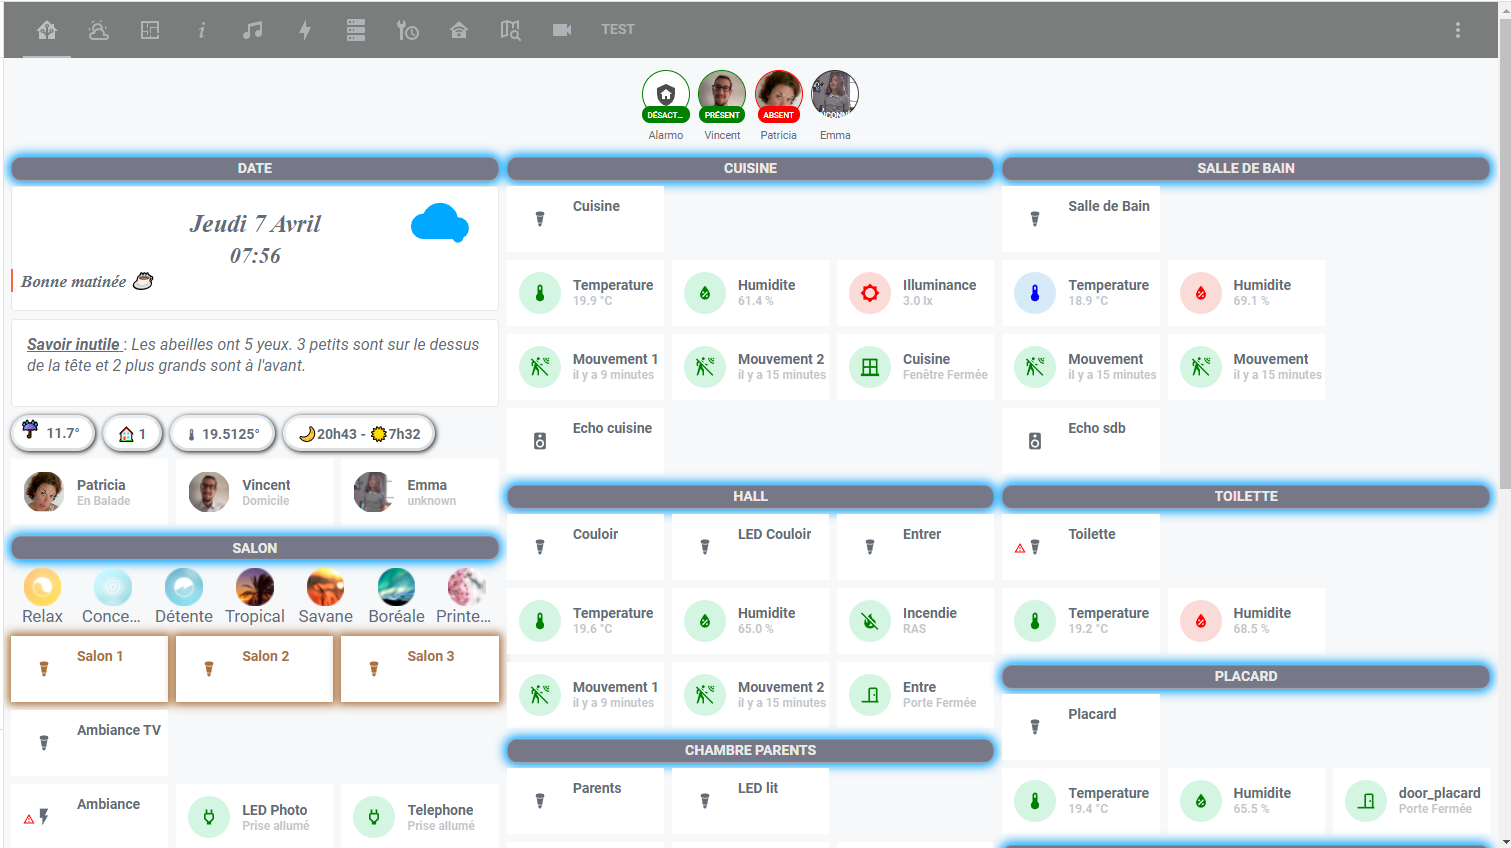
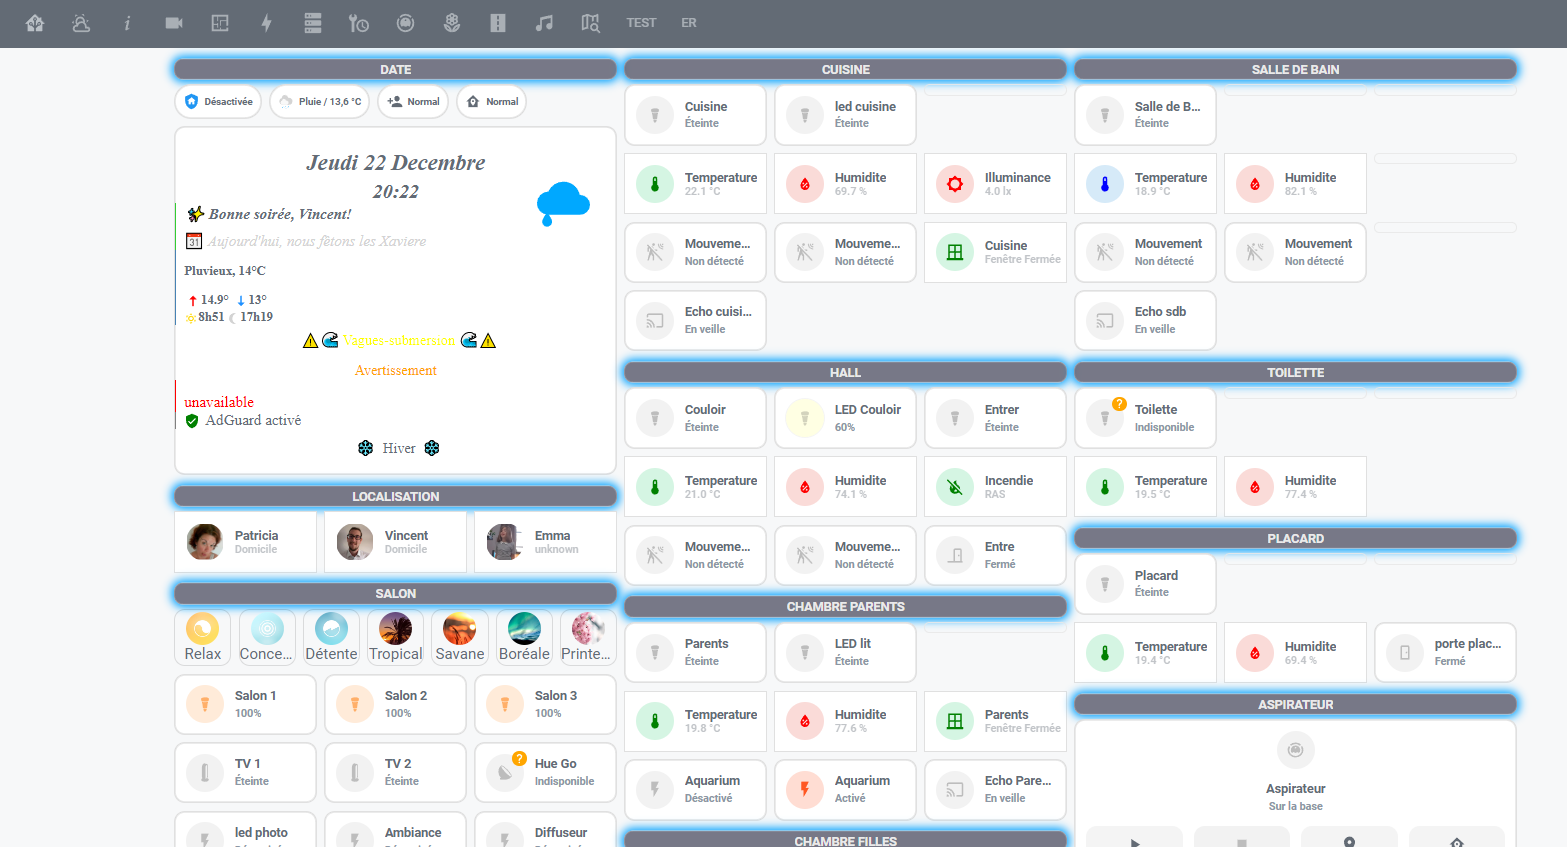
Mise a jour readme et screenshot

diff --git a/README.md b/README.md
@@ -1,4 +1,4 @@
-Installation de [Home Assistant](https://home-assistant.io/) sous docker hébergé sur une VM debian 11, le tout sur un hyperviseur Esxi. configuration pour un appartement T3, offrant des automatisations pour la lumière, le multimédia, la sécurité, etc...
+Installation de [Home Assistant](https://home-assistant.io/) sous docker hébergé sur une VM debian 11, le tout sur un NAS Qnap. configuration pour un appartement T3, offrant des automatisations pour la lumière, le multimédia, la sécurité, etc...
 Je ne suis pas un expert, les codes ne sont peut-être pas écrits de la meilleure façon, n'ayant à la base aucunes connaissances en développement et en Yaml, j'ai surtout modifié des configurations trouvées ici et là pour l'adapter à mon besoin, j'ai réalisé ceci avec mes petites connaissances et des informations trouvé un peu partout sur des sites, des forums et différents Github.
 
 
@@ -7,18 +7,23 @@ Tout n'est pas encore terminé, mais je commence à avoir quelques choses d'util
 
 #### Lumières 💡
 
-- **[Hue E27 White and Color Ambiance](https://www.philips-hue.com/fr-fr/p/hue-white-and-color-ambiance-pack-de-1-e27/8719514328204)** salon (x3)
-- **[Hue E27 White](https://www.philips-hue.com/fr-fr/p/hue-white-pack-de-1-e27/8719514329843)**  chambre 1 (x1), chambre 2 (x1), entrée (x1), WC (x1), cuisine (x1), hall (x1), Placard (x1)
-- **[Hue Play](https://www.philips-hue.com/fr-fr/p/hue-white-and-color-ambiance-hue-play-pack-d-extension/7820330P7)** salon (x1).
-- **[Ruban LED RGB 2m](https://fr.aliexpress.com/item/1005001629851565.html?spm=a2g0o.productlist.0.0.9a6641dcvSloLh&algo_pvid=11b74916-a0cf-4171-b561-42ae37cb1f9b&algo_exp_id=11b74916-a0cf-4171-b561-42ae37cb1f9b-7&pdp_ext_f=%7B%22sku_id%22%3A%2212000020734049678%22%7D&pdp_pi=-1%3B26.06%3B-1%3B-1%40salePrice%3BEUR%3Bsearch-mainSearch)** cusine (x1)
-- **[Ruban LED RGB 5m](https://fr.aliexpress.com/item/1005001629851565.html?spm=a2g0o.productlist.0.0.9a6641dcvSloLh&algo_pvid=11b74916-a0cf-4171-b561-42ae37cb1f9b&algo_exp_id=11b74916-a0cf-4171-b561-42ae37cb1f9b-7&pdp_ext_f=%7B%22sku_id%22%3A%2212000020734049678%22%7D&pdp_pi=-1%3B26.06%3B-1%3B-1%40salePrice%3BEUR%3Bsearch-mainSearch)** hall (x1)
+- **[Hue E27 White and Color Ambiance](https://www.philips-hue.com/fr-fr/p/hue-white-and-color-ambiance-pack-de-1-e27/8719514328204)** <sup>[Zigbee]</sup> salon (x3)
+- **[Hue E27 White](https://www.philips-hue.com/fr-fr/p/hue-white-pack-de-1-e27/8719514329843)** <sup>[Zigbee]</sup> chambre 1 (x1), chambre 2 (x1), entrée (x1), WC (x1), cuisine (x1), hall (x1), Placard (x1)
+- **[Hue Play](https://www.philips-hue.com/fr-fr/p/hue-white-and-color-ambiance-hue-play-pack-d-extension/7820330P7)** salon (x2).
+- **[Ruban LED RGB 2m](https://fr.aliexpress.com/item/1005001629851565.html?spm=a2g0o.productlist.0.0.9a6641dcvSloLh&algo_pvid=11b74916-a0cf-4171-b561-42ae37cb1f9b&algo_exp_id=11b74916-a0cf-4171-b561-42ae37cb1f9b-7&pdp_ext_f=%7B%22sku_id%22%3A%2212000020734049678%22%7D&pdp_pi=-1%3B26.06%3B-1%3B-1%40salePrice%3BEUR%3Bsearch-mainSearch)** <sup>[Zigbee]</sup> cusine (x1)
+- **[Ruban LED RGB 5m hue Lightstrips](https://www.amazon.fr/Philips-LightStrips-connectique-compatible-Bluetooth/dp/B088RX9CSZ/ref=sr_1_5?crid=17BYN0YNGI5AN&keywords=hue%2Blightstrip&qid=1671735585&sprefix=hue%2Bli%2Caps%2C91&sr=8-5&th=1)** hall (x1)
 - **[Ruban LED RGB 5m étanche](https://fr.aliexpress.com/item/1005001629851565.html?spm=a2g0o.productlist.0.0.9a6641dcvSloLh&algo_pvid=11b74916-a0cf-4171-b561-42ae37cb1f9b&algo_exp_id=11b74916-a0cf-4171-b561-42ae37cb1f9b-7&pdp_ext_f=%7B%22sku_id%22%3A%2212000020734049678%22%7D&pdp_pi=-1%3B26.06%3B-1%3B-1%40salePrice%3BEUR%3Bsearch-mainSearch)** SdB (x1)
+
+#### Noel 🎄🎅
+- **[Twinkly Strings – Guirlande lumineuse à led](https://www.amazon.fr/gp/product/B08F2JDWX5/ref=ppx_yo_dt_b_asin_title_o09_s00?ie=UTF8&psc=1)** <sup>[Wifi]</sup>sapin salon (x1)
+- **[Twinkly Music – Capteur de Son](https://www.amazon.fr/gp/product/B087CTR5VW/ref=ppx_yo_dt_b_asin_title_o08_s00?ie=UTF8&psc=1)** <sup>[Wifi]</sup> salon (x3)
+
 
 #### Détécteurs 📡
 
 - **[Xiaomi Aqara door & window contact sensor](https://www.amazon.fr/Aqara-XIAOMI-MCCGQ11LM-Ensemble-Capteur/dp/B07P9K6HBZ/ref=sr_1_5?crid=KW4W9BT65HNU&keywords=capteur+de+porte+xiaomi&qid=1644229999&sprefix=capteur+de+porte+xiaomi%2Caps%2C292&sr=8-5)** <sup>[Zigbee]</sup> détection d'ouverture de porte et fenêtres (x6). 
 - **[Xiaomi MiJia human body movement sensor](https://www.amazon.fr/Aqara-RTCGQ11LM-D%C3%A9tecteur-Automatique-compatible/dp/B07D1CRRVF/ref=sr_1_6?__mk_fr_FR=%C3%85M%C3%85%C5%BD%C3%95%C3%91&crid=4A2UXBSNVBKD&keywords=capteur+de+mouvement+xiaomi&qid=1644147334&sprefix=capteur+de+mouvement+xiaomi%2Caps%2C51&sr=8-6)** <sup>[Zigbee]</sup> détection de mouvements (x9).
-- **[Hue Détecteur de Mouvement Motion Sensor](https://www.amazon.fr/Philips-D%C3%A9tecteur-Mouvement-Motion-Sensor/dp/B09CV78GV1/ref=sr_1_5?__mk_fr_FR=%C3%85M%C3%85%C5%BD%C3%95%C3%91&crid=E0BNPR9KKMZM&keywords=hue+motion&qid=1644104262&sprefix=hue+motion%2Caps%2C54&sr=8-5)** <sup>[Zigbee]</sup> détection de mouvements (x1). 
+- **[Hue Détecteur de Mouvement Motion Sensor](https://www.amazon.fr/Philips-D%C3%A9tecteur-Mouvement-Motion-Sensor/dp/B09CV78GV1/ref=sr_1_5?__mk_fr_FR=%C3%85M%C3%85%C5%BD%C3%95%C3%91&crid=E0BNPR9KKMZM&keywords=hue+motion&qid=1644104262&sprefix=hue+motion%2Caps%2C54&sr=8-5)** <sup>[Zigbee]</sup> détection de mouvements (x3). 
 - **[Xiaomi Aqara Capteur de Température et d'Humidité](https://www.amazon.fr/Aqara-Temperatur-Luftfeuchtigkeits-Luftdrucksensor-Homekit/dp/B07D37FKGY/ref=sr_1_6?crid=LMMOX7F8DMAO&keywords=aquara+xiaomi+temperature&qid=1644104335&sprefix=aquara+%2Caps%2C61&sr=8-6)** <sup>[Zigbee]</sup> Capteur de température et humidité (x8). 
 - **[Xiaomi Capteur de luminosité](https://www.amazon.fr/Capteur-luminosit%C3%A9-Zigbee-3-0-Xiaomi/dp/B094MQC8V1/ref=sr_1_12?crid=OCWAI6ZJ4CHS&keywords=capteur+de+luminosit%C3%A9&qid=1644104676&sprefix=capteur+de+lu%2Caps%2C61&sr=8-12)** <sup>[Zigbee]</sup> Capteur de luminosité (x2). 
 - **[Xiaomi Aqara Capteur de Vibration](https://www.amazon.fr/Capteur-vibration-sans-Aqara-DJT11LM/dp/B07PJT939B/ref=sr_1_20?__mk_fr_FR=%C3%85M%C3%85%C5%BD%C3%95%C3%91&crid=2ZK09VLWZS8IC&keywords=aqara+temperature+lcd&qid=1644104538&sprefix=aquara+temperature+lcd%2Caps%2C44&sr=8-20)** <sup>[Zigbee]</sup> Capteur de température et humidité (x2). 
@@ -30,12 +35,12 @@ Tout n'est pas encore terminé, mais je commence à avoir quelques choses d'util
 - **[PlayStation 4](https://www.amazon.fr/PS4-Slim-500-Go-noir/dp/B07HNR4ZZD/ref=sr_1_2?keywords=ps4&qid=1644104989&sr=8-2)** <sup>[ethernet]</sup> pour le contrôle local et vocal (on, off,...). **A venir!!**
 - **[Nintendo switch](https://www.amazon.fr/Nintendo-Switch-avec-paire-Rouge/dp/B07WKNQ8JT/ref=sr_1_5?__mk_fr_FR=%C3%85M%C3%85%C5%BD%C3%95%C3%91&crid=2KVX793P5L1NQ&keywords=switch&qid=1644105032&sprefix=switch%2Caps%2C87&sr=8-5)** <sup>[Wifi]</sup> pour le contrôle local et vocal (on, off,...). **A venir!!**
 - **[Plex](https://www.plex.tv/fr/)** <sup>[emulated]</sup> Pour la lecture de films et séries
-- **[Alexa Echot Dot  (4e génération) avec horloge](https://www.amazon.fr/dp/B084J4KZ8J/ref=s9_acsd_al_bw_c2_x_2_i?pf_rd_m=A1X6FK5RDHNB96&pf_rd_s=merchandised-search-2&pf_rd_r=HP2Q3A3PY0QKZGX4FAH9&pf_rd_t=101&pf_rd_p=8df8ac55-eecf-4218-9fea-480a9c01e548&pf_rd_i=15428386031)** <sup>[WiFi]</sup> pour jouer de la musique dans les chambres et tout contrôler dans la maison (x2).
+- **[Alexa Echot Dot  (4e génération) avec horloge](https://www.amazon.fr/dp/B084J4KZ8J/ref=s9_acsd_al_bw_c2_x_2_i?pf_rd_m=A1X6FK5RDHNB96&pf_rd_s=merchandised-search-2&pf_rd_r=HP2Q3A3PY0QKZGX4FAH9&pf_rd_t=101&pf_rd_p=8df8ac55-eecf-4218-9fea-480a9c01e548&pf_rd_i=15428386031)** <sup>[WiFi]</sup> pour jouer de la musique dans les chambres et tout contrôler dans la maison (x3).
 - **[Alexa Echo Dot (4e génération), Enceinte connectée avec Alexa, Anthracite](https://www.amazon.fr/dp/B084DWG2VQ/ref=pav_d_fromAsin_B07PHPXHQS_toAsin_B084DWG2VQ)** <sup>[WiFi]</sup> pour jouer de la musique dans le salon, la cuisine, la salle de bain et tout contrôler dans la maison (x3).
 
 #### Prises 🔌
 
-- **[Prises connectées](https://www.amazon.fr/Connect%C3%A9e-intelligente-compatible-SmartThings-Surveillance/dp/B08ZY72GS6/ref=sr_1_21?crid=HKBNDJ0M7HU0&keywords=prise+connecter+alexa&qid=1644103013&s=hi&sprefix=prise+connecter%2Cdiy%2C52&sr=1-21)** <sup>[WiFi]</sup> pour contrôler et relever la consommation de mes appareils électroniques non inteligent(x5).
+- **[Prises connectées](https://www.amazon.fr/dalimentation-intelligente-Application-t%C3%A9l%C3%A9commande-Fonctionne/dp/B09L4M7L8R/ref=sr_1_48?keywords=prise+zigbee&qid=1671736047&sr=8-48)** <sup>[ZigBee]</sup> pour contrôler et relever la consommation de mes appareils électroniques non inteligent(x5).
 - **[Prises connectées avec USB et veilleuse](https://www.amazon.fr/Maxcio-Connect%C3%A9e-Intelligente-Compatible-Contr%C3%B4le/dp/B07GX8YDXZ)** <sup>[WiFi]</sup> pour contrôler et relever la consommation de mes appareils électroniques non inteligent(x2).
 
 #### Télécommande et Bouton 🎛
@@ -58,7 +63,6 @@ Tout n'est pas encore terminé, mais je commence à avoir quelques choses d'util
 #### Hubs
 
 - **[Hue Hub](https://www.amazon.fr/Philips-Hue-Pont-Connexion-Fonctionne/dp/B09CV9F3KR/ref=sr_1_5?__mk_fr_FR=%C3%85M%C3%85%C5%BD%C3%95%C3%91&crid=9IQ2ZU96JD83&keywords=hue+hub&qid=1644105522&sprefix=hue+hub%2Caps%2C58&sr=8-5)** <sup>[WiFi]</sup> pont de connexion pour l'ensemble des équipements HUE (x1).
-- **[Xiaomi gateway v3](https://www.amazon.fr/Multi-mode-Automation-surveillance-intelligents-Compatible/dp/B083K87JC3/ref=sr_1_1?crid=136YAQSI05IUO&keywords=xiaomi+gateway+v3&qid=1644105580&sprefix=xiaomi+gate%2Caps%2C62&sr=8-1)** <sup>[Zigbee et bluetooth]</sup> pont de connexion zigbee et bluetooth (x1). **Bientôt supprimé**
 - **[Combee II](https://www.amazon.fr/Dresden-ConBee-Electronique-II/dp/B07PZ7ZHG5/ref=sr_1_1?__mk_fr_FR=%C3%85M%C3%85%C5%BD%C3%95%C3%91&crid=3SJ6VTYF0X44E&keywords=conbee+2&qid=1644105724&sprefix=combee2%2Caps%2C64&sr=8-1)** <sup>[Zigbee]</sup> pont de connexion zigbee (x1). 
 
 #### Mes intégrations
@@ -112,9 +116,6 @@ Tout n'est pas encore terminé, mais je commence à avoir quelques choses d'util
 - **[Nintendo switch](https://www.amazon.fr/Nintendo-Switch-avec-paire-Rouge/dp/B07WKNQ8JT/ref=sr_1_5?__mk_fr_FR=%C3%85M%C3%85%C5%BD%C3%95%C3%91&crid=2KVX793P5L1NQ&keywords=switch&qid=1644105032&sprefix=switch%2Caps%2C87&sr=8-5)** <sup>[Wifi]</sup> pour le contrôle local et vocal (on, off,...). **A venir!!**
 
 - **Boite aux lettres** <sup>[Zigbee]</sup> pour le contrôle du courrier et des colis. **A venir!!**
-
-- **Refacto et commenter les fichiers yaml**
-- **Passage sur docker-swarm**
 
 
 #### <a name="screenshots thème clair">Screenshots thème clair</a>
@@ -239,7 +240,33 @@ Tout n'est pas encore terminé, mais je commence à avoir quelques choses d'util
         </figcaption>
     </figure>
     </div>
+    
+    
+#### <a name="screenshots thème sombre">Screenshots thème clair</a>
 
+<div align="center">
+    <figure>
+        <div>
+            <img src="/www/images/Dshboard_dark_home_1.PNG" title="Vues">
+        </div>
+        <figcaption>
+            <p><strong> </strong></p>
+        </figcaption>
+    </figure>
+    </div>
+    
+<div align="center">
+    <figure>
+        <div>
+            <img src="/www/images/Dshboard_dark_home_2.PNG" title="Vues">
+        </div>
+        <figcaption>
+            <p><strong> </strong></p>
+        </figcaption>
+    </figure>
+    </div> 
+    
+    
 #### Mes sources
 
 
